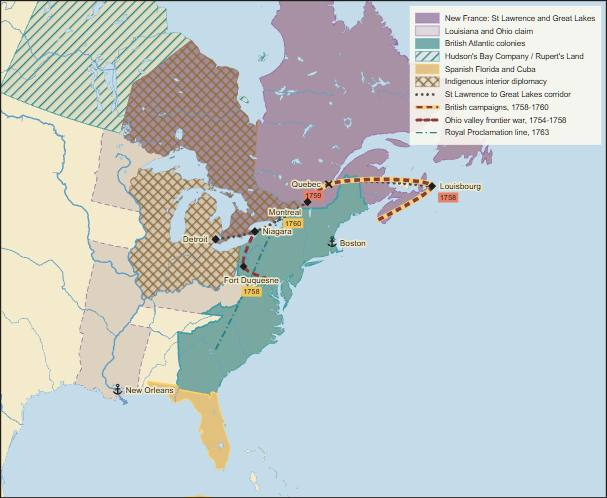
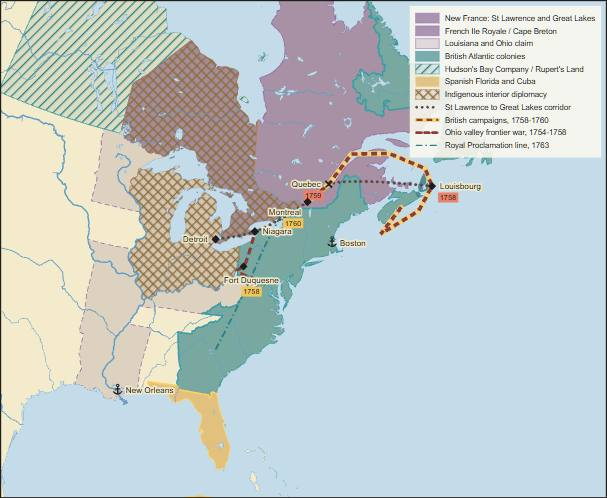
Fix final round atlas geography
Copilot-Session: 37f2f47f-8b63-49cd-b8ce-cded564ac449

Changed region(s): [[0.5041, 0.0, 1.0, 0.4819], [0.3855, 0.4819, 0.4448, 0.5723]]

diff --git a/atlas/plates/seven-years-war-global-1756-1763.js b/atlas/plates/seven-years-war-global-1756-1763.js
@@ -5,22 +5,23 @@
   const QUE=[-71.21,46.81], LOU=[-59.96,45.90], DUQ=[-79.99,40.44], MTL=[-73.56,45.50], BOS=[-71.06,42.36];
   const CAL=[88.36,22.57], PLA=[88.25,23.80], BUX=[84.05,25.56], MAD=[80.27,13.08], PON=[79.83,11.93];
   window.PLATES["seven-years-war-global-1756-1763"] = { id:"seven-years-war-global-1756-1763", title:"The Seven Years' War, 1756-1763", head:"Age of Reason / World war", folio:"41", viewer:"early-modern/1756/ch-seven-years-war-global", figures:[
-    {caption:"Europe: Silesia, Saxony and the diplomatic revolution", share:0.42, extent:[[-5,46],[33,61]], projection:"conic", layers:[
+    {caption:"Europe: Silesia, Saxony and the diplomatic revolution", share:0.42, extent:[[-2,47],[27,57]], projection:"conic", layers:[
       {id:"prussia",type:"area",tier:"core",colour:PRUS,legend:"Prussia and Silesia",regions:["DE-BB","DE-BE","DE-ST","PL-LB","PL-DS","PL-OP","PL-WP","PL-ZP","PL-PM"]},
-      {id:"austria-coalition",type:"area",tier:"influence",colour:AUS,legend:"Austria and Empire coalition",regions:["AUT","CZE","SVK","HUN","HRV","SVN","DE-BY","DE-BW"]},
+      {id:"austria-coalition",type:"area",tier:"core",colour:AUS,legend:"Austria and Empire coalition",regions:["AUT","CZE","SVK","HUN","HRV","SVN","DE-BY","DE-BW"]},
       {id:"france",type:"area",tier:"influence",colour:FRA,legend:"France against Prussia",regions:["FRA"]},
       {id:"britain-hanover",type:"area",pattern:"hatch",colour:BRIT,legend:"Britain-Hanover",regions:["GBR","DE-NI","DE-HB","DE-HH"]},
       {id:"russia",type:"area",tier:"influence",colour:RUS,legend:"Russia and East Prussian pressure",regions:["RUS"]},
       {id:"saxony",type:"area",tier:"core",colour:SAX,legend:"Saxony, Prussian base after Pirna",regions:["DE-SN"]},
       {id:"frederick-lines",type:"route",style:"road",weight:2.6,colour:WAR,legend:"Frederick's interior lines",path:[BER,PRG,ROS,LEU,BER,ZOR,KUN]},
       {id:"western-army",type:"route",style:"dashed",weight:2.2,colour:BRIT,legend:"Ferdinand holds western Germany",path:[[4.9,50.6],[6.8,51.3],MIN]},
-      {id:"rossbach",type:"point",symbol:"battle",at:ROS,name:"Rossbach",labelPos:"w",tag:{text:"1757",colour:"#f1c75b"}}, {id:"leuthen",type:"point",symbol:"battle",at:LEU,name:"Leuthen",tag:{text:"1757",colour:"#f1c75b"}}, {id:"zorndorf",type:"point",symbol:"battle",at:ZOR,name:"Zorndorf",labelPos:"n",tag:{text:"1758",colour:"#f1c75b"}}, {id:"kunersdorf",type:"point",symbol:"battle",at:KUN,name:"Kunersdorf",labelPos:"s",tag:{text:"1759",colour:"#e8806a"}}, {id:"minden",type:"point",symbol:"battle",at:MIN,name:"Minden",labelPos:"n",tag:{text:"1759",colour:"#f1c75b"}}, {id:"hubertusburg",type:"point",symbol:"treaty",at:[12.92,51.25],name:"Hubertusburg",labelPos:"se",tag:{text:"1763",colour:"#f1c75b"}}
-    ], legend:{position:"bottom-left",columns:1}},
+      {id:"rossbach",type:"point",symbol:"battle",at:ROS,name:"Rossbach",labelPos:"sw",tag:{text:"1757",colour:"#f1c75b"}}, {id:"leuthen",type:"point",symbol:"battle",at:LEU,name:"Leuthen",labelPos:"e",tag:{text:"1757",colour:"#f1c75b"}}, {id:"zorndorf",type:"point",symbol:"battle",at:ZOR,name:"Zorndorf",labelPos:"e",tag:{text:"1758",colour:"#f1c75b"}}, {id:"kunersdorf",type:"point",symbol:"battle",at:KUN,name:"Kunersdorf",labelPos:"s",tag:{text:"1759",colour:"#e8806a"}}, {id:"minden",type:"point",symbol:"battle",at:MIN,name:"Minden",labelPos:"n",tag:{text:"1759",colour:"#f1c75b"}}, {id:"hubertusburg",type:"point",symbol:"treaty",at:[12.92,51.25],name:"Hubertusburg",labelPos:"s",tag:{text:"1763",colour:"#f1c75b"}}
+    ], legend:{position:"top-left",columns:1}},
     {caption:"North America: Canada won on the St Lawrence, 1754-1763", share:0.31, extent:[[-90,36],[-55,52]], projection:"conic", layers:[
-      {id:"french-canada-war",type:"area",tier:"core",colour:FRA,legend:"French Canada and Ohio posts",regions:["CA-QC","CA-ON","CA-NB","CA-NS","CA-NL","US-OH","US-PA","US-WV","US-MI"]},
-      {id:"british-seaboard",type:"area",tier:"core",colour:BRIT,legend:"British seaboard colonies",regions:["US-ME","US-NH","US-VT","US-MA","US-RI","US-CT","US-NY","US-NJ","US-PA","US-MD","US-DE","US-VA"]},
-      {id:"louisbourg-quebec",type:"route",geo:true,style:"road",weight:2.8,colour:BRIT,legend:"British sea-borne advance",path:[BOS,[-67,43],LOU,[-63,47],QUE,MTL]},
-      {id:"ohio-1758",type:"route",style:"dashed",weight:2.2,colour:BRIT,legend:"Ohio advance to Fort Duquesne",path:[[-77,39.6],DUQ]},
+      {id:"french-canada-war",type:"area",tier:"core",colour:FRA,legend:"French Canada and Ohio posts",regions:["CA-QC","CA-ON","CA-NB","CA-PE","US-OH","US-WV","US-MI"]},
+      {id:"cape-breton",type:"area",tier:"core",colour:FRA,legend:"French Ile Royale / Cape Breton",polygon:[[-61.7,45.25],[-60.9,45.25],[-59.7,45.75],[-59.5,46.25],[-60.2,47.05],[-61.3,47.05],[-61.8,46.25]],clipToLand:true},
+      {id:"british-seaboard",type:"area",tier:"core",colour:BRIT,legend:"British seaboard colonies",regions:["CA-NL","CA-NS","US-ME","US-NH","US-VT","US-MA","US-RI","US-CT","US-NY","US-NJ","US-PA","US-MD","US-DE","US-VA"]},
+      {id:"louisbourg-quebec",type:"route",geo:true,style:"road",weight:2.8,colour:BRIT,legend:"British sea-borne advance",path:[BOS,[-66.0,42.8],[-61.8,44.2],LOU,[-60.4,47.3],[-64.2,48.8],[-68.5,49.0],QUE,MTL]},
+      {id:"ohio-1758",type:"route",style:"dashed",weight:2.2,colour:WAR,legend:"Ohio advance to Fort Duquesne",path:[[-78.6,39.5],[-80.6,40.1],DUQ]},
       {id:"louisbourg",type:"point",symbol:"fortress",at:LOU,name:"Louisbourg",labelPos:"e",tag:{text:"1758",colour:"#f1c75b"}}, {id:"quebec",type:"point",symbol:"battle",at:QUE,name:"Quebec",labelPos:"w",tag:{text:"1759",colour:"#e8806a"}}, {id:"montreal",type:"point",symbol:"fortress",at:MTL,name:"Montreal",labelPos:"sw",tag:{text:"1760",colour:"#f1c75b"}}, {id:"duquesne",type:"point",symbol:"fortress",at:DUQ,name:"Fort Duquesne",labelPos:"s",tag:{text:"1758",colour:"#f1c75b"}}
     ], legend:{position:"bottom-left",columns:1}},
     {caption:"India: Plassey, Bengal revenue and the failure of French plans", share:0.27, extent:[[72,7],[91,27]], projection:"conic", layers:[
@@ -32,6 +33,6 @@
     ], legend:{position:"bottom-left",columns:1}}
   ], text:{intro:"The Seven Years' War is the atlas's first fully global war: Silesia, Hanover, Canada, the Caribbean, Senegal and India all belong to the same fiscal and naval struggle.", sections:[
     {heading:"Europe", entries:[{date:"1756-1763",text:"Frederick strikes first in Saxony, survives coalition pressure by interior lines, and keeps Silesia at Hubertusburg.",refs:["prussia","saxony","austria-coalition","russia","frederick-lines","rossbach","leuthen","zorndorf","kunersdorf","hubertusburg"]},{date:"1757-1759",text:"Britain subsidizes Prussia and uses Hanoverian western Germany to hold France while the navy attacks overseas.",refs:["britain-hanover","france","western-army","minden"]}]},
-    {heading:"Overseas", entries:[{date:"1758-1760",text:"Louisbourg, Quebec and Montreal break New France; Canada is won on the St Lawrence as much as in Silesia.",refs:["french-canada-war","british-seaboard","louisbourg-quebec","louisbourg","quebec","montreal","ohio-1758"]},{date:"1757-1765",text:"In India, Plassey and Buxar let the East India Company turn Bengal from trading theatre into revenue base, while French plans collapse.",refs:["british-bengal","french-losses","maratha-field","clive","plassey","buxar","pondicherry"]}]}
+    {heading:"Overseas", entries:[{date:"1758-1760",text:"Louisbourg, Quebec and Montreal break New France; Canada is won on the St Lawrence as much as in Silesia.",refs:["french-canada-war","cape-breton","british-seaboard","louisbourg-quebec","louisbourg","quebec","montreal","ohio-1758"]},{date:"1757-1765",text:"In India, Plassey and Buxar let the East India Company turn Bengal from trading theatre into revenue base, while French plans collapse.",refs:["british-bengal","french-losses","maratha-field","clive","plassey","buxar","pondicherry"]}]}
   ]}, sources:["Penguin Atlas Vol. 1 pp. 283-284", "Natural Earth admin-1 regions approximate war theatres and territorial fields"] };
 })();

diff --git a/atlas/plates/atlantic-america-new-france-1607-1763.js b/atlas/plates/atlantic-america-new-france-1607-1763.js
@@ -4,15 +4,16 @@
   const QUE=[-71.21,46.81], MTL=[-73.56,45.50], LOU=[-59.96,45.90], DUQ=[-79.99,40.44], NIAG=[-79.06,43.15], DET=[-83.05,42.33], NEWO=[-90.07,29.95], BOS=[-71.06,42.36], NYC=[-74.01,40.71], PHI=[-75.16,39.95], HAV=[-82.37,23.11], KING=[-76.79,17.97], POT=[-65.75,-19.58], REC=[-34.88,-8.05], RIO=[-43.17,-22.91], CART=[-75.48,10.40], VER=[-96.14,19.17];
   window.PLATES["atlantic-america-new-france-1607-1763"] = { id:"atlantic-america-new-france-1607-1763", title:"Atlantic America and New France, 1607-1763", head:"Age of Reason / America", folio:"40", viewer:"early-modern/1763/ch-atlantic-america-new-france", figures:[
     {caption:"French and British North America to the Peace of Paris, 1763", share:0.58, extent:[[-98,24],[-50,58]], projection:"conic", layers:[
-      {id:"new-france-canada",type:"area",tier:"core",colour:FRA,legend:"New France: St Lawrence and Great Lakes",regions:["CA-QC","CA-ON","CA-NB","CA-NS","CA-NL"]},
+      {id:"new-france-canada",type:"area",tier:"core",colour:FRA,legend:"New France: St Lawrence and Great Lakes",regions:["CA-QC","CA-ON","CA-NB","CA-PE"]},
+      {id:"cape-breton",type:"area",tier:"core",colour:FRA,legend:"French Ile Royale / Cape Breton",polygon:[[-61.7,45.25],[-60.9,45.25],[-59.7,45.75],[-59.5,46.25],[-60.2,47.05],[-61.3,47.05],[-61.8,46.25]],clipToLand:true},
       {id:"louisiana-claim",type:"area",tier:"influence",colour:FRA,legend:"Louisiana and Ohio claim",regions:["US-LA","US-MS","US-AR","US-MO","US-IL","US-IN","US-OH","US-KY","US-WV","US-MI","US-WI","US-MN"]},
-      {id:"british-colonies",type:"area",tier:"core",colour:BRIT,legend:"British Atlantic colonies",regions:["US-ME","US-NH","US-VT","US-MA","US-RI","US-CT","US-NY","US-NJ","US-PA","US-DE","US-MD","US-DC","US-VA","US-NC","US-SC","US-GA"]},
+      {id:"british-colonies",type:"area",tier:"core",colour:BRIT,legend:"British Atlantic colonies",regions:["CA-NL","CA-NS","US-ME","US-NH","US-VT","US-MA","US-RI","US-CT","US-NY","US-NJ","US-PA","US-DE","US-MD","US-DC","US-VA","US-NC","US-SC","US-GA"]},
       {id:"hudson-bay",type:"area",pattern:"hatch",colour:BRIT,legend:"Hudson's Bay Company / Rupert's Land",regions:["CA-NU","CA-MB","CA-SK","CA-NT"]},
       {id:"spanish-florida",type:"area",tier:"core",colour:SPA,legend:"Spanish Florida and Cuba",regions:["US-FL","CUB"]},
       {id:"indigenous-country",type:"area",pattern:"crosshatch",colour:IND,legend:"Indigenous interior diplomacy",regions:["US-OH","US-IN","US-MI","US-WI","US-IL","CA-ON"]},
       {id:"st-lawrence",type:"route",style:"dotted",weight:2.4,colour:ROAD,legend:"St Lawrence to Great Lakes corridor",path:[LOU,QUE,MTL,NIAG,DET]},
-      {id:"british-advance",type:"route",style:"road",weight:2.8,colour:WAR,legend:"British campaigns, 1758-1760",path:[[ -66.1,43.9],LOU,QUE,MTL]},
-      {id:"ohio-front",type:"route",style:"dashed",weight:2.2,colour:WAR,legend:"Ohio valley frontier war, 1754-1758",path:[[ -77.4,39.6],DUQ,NIAG]},
+      {id:"british-advance",type:"route",geo:true,style:"road",weight:2.8,colour:WAR,legend:"British campaigns, 1758-1760",path:[[-63.57,44.65],[-66.0,42.8],[-61.8,44.2],LOU,[-60.4,47.3],[-64.2,48.8],[-68.5,49.0],QUE,MTL]},
+      {id:"ohio-front",type:"route",style:"dashed",weight:2.2,colour:WAR,legend:"Ohio valley frontier war, 1754-1758",path:[[-78.6,39.5],[-80.6,40.1],DUQ,NIAG]},
       {id:"proclamation",type:"boundary",style:"dashdot",colour:BRIT,width:2,legend:"Royal Proclamation line, 1763",path:[[-82,34],[-81,36],[-80,38],[-79,40],[-78,42],[-76,45]]},
       {id:"louisbourg",type:"point",symbol:"fortress",at:LOU,name:"Louisbourg",labelPos:"e",tag:{text:"1758",colour:"#e8806a"}}, {id:"quebec",type:"point",symbol:"battle",at:QUE,name:"Quebec",labelPos:"w",tag:{text:"1759",colour:"#e8806a"}}, {id:"montreal",type:"point",symbol:"fortress",at:MTL,name:"Montreal",labelPos:"sw",tag:{text:"1760",colour:"#f1c75b"}}, {id:"fort-duquesne",type:"point",symbol:"fortress",at:DUQ,name:"Fort Duquesne",labelPos:"s",tag:{text:"1758",colour:"#f1c75b"}}, {id:"niagara",type:"point",symbol:"fortress",at:NIAG,name:"Niagara",labelPos:"e"}, {id:"detroit",type:"point",symbol:"fortress",at:DET,name:"Detroit",labelPos:"w"}, {id:"new-orleans",type:"point",symbol:"port",at:NEWO,name:"New Orleans",labelPos:"e"}, {id:"boston",type:"point",symbol:"port",at:BOS,name:"Boston",labelPos:"e"}
     ], legend:{position:"top-right",columns:1}},
@@ -29,7 +30,7 @@
       {id:"potosi",type:"point",symbol:"find",at:POT,name:"Potosi",labelPos:"w",tag:{text:"1546",colour:"#f1c75b"}}, {id:"recife",type:"point",symbol:"port",at:REC,name:"Recife",labelPos:"e",tag:{text:"1630",colour:"#f1c75b"}}, {id:"rio",type:"point",symbol:"port",at:RIO,name:"Rio",labelPos:"e"}, {id:"veracruz",type:"point",symbol:"port",at:VER,name:"Vera Cruz",labelPos:"nw"}, {id:"havana",type:"point",symbol:"port",at:HAV,name:"Havana",labelPos:"e"}, {id:"jamaica",type:"point",symbol:"port",at:KING,name:"Jamaica",labelPos:"e",tag:{text:"1655",colour:"#f1c75b"}}
     ], legend:{position:"bottom-left",columns:1}}
   ], text:{intro:"The American pages are not just background for Europe: New France, the St Lawrence, the Great Lakes forts, Caribbean islands, silver fleets and Brazil form a connected Atlantic map.", sections:[
-    {heading:"Canada and the interior", entries:[{date:"1608-1760",text:"Quebec, Montreal, Louisbourg and the Great Lakes forts hold New France together along the St Lawrence and inland waterways, with Indigenous diplomacy shaping the frontier.",refs:["new-france-canada","louisiana-claim","indigenous-country","st-lawrence","quebec","montreal","louisbourg","niagara","detroit"]},{date:"1754-1763",text:"War opens in the Ohio valley, then British sea power takes Louisbourg, Quebec and Montreal; the Royal Proclamation line tries to freeze expansion beyond the Appalachians.",refs:["british-colonies","british-advance","ohio-front","fort-duquesne","proclamation"]}]},
+    {heading:"Canada and the interior", entries:[{date:"1608-1760",text:"Quebec, Montreal, Louisbourg and the Great Lakes forts hold New France together along the St Lawrence and inland waterways, with Indigenous diplomacy shaping the frontier.",refs:["new-france-canada","cape-breton","louisiana-claim","indigenous-country","st-lawrence","quebec","montreal","louisbourg","niagara","detroit"]},{date:"1754-1763",text:"War opens in the Ohio valley, then British sea power takes Louisbourg, Quebec and Montreal; the Royal Proclamation line tries to freeze expansion beyond the Appalachians.",refs:["british-colonies","british-advance","ohio-front","fort-duquesne","proclamation"]}]},
     {heading:"Atlantic empires", entries:[{date:"1546-1777",text:"Spanish silver, Portuguese Brazil, Dutch Guiana, British Jamaica and French Saint-Domingue pull the Americas into European war, slavery and fiscal crisis.",refs:["spanish-america","portuguese-brazil","dutch-atlantic","british-west-indies","french-antilles","silver-route","slave-route","potosi","jamaica"]},{date:"1607-1767",text:"Jesuit missions in Paraguay and Paulista raids show how imperial frontiers were also mission fields, slave-raiding zones and contested Indigenous landscapes.",refs:["jesuit-paraguay","paulistas"]}]}
   ]}, sources:["Penguin Atlas Vol. 1 pp. 277-278 and 283-284", "Natural Earth admin-1 regions approximate colonial claims; Indigenous country is intentionally schematic"] };
 })();

diff --git a/atlas/plates/prussia-poland-enlightened-despotism-1713-1795.js b/atlas/plates/prussia-poland-enlightened-despotism-1713-1795.js
@@ -15,32 +15,33 @@
     ], legend:{position:"bottom-left",columns:1}},
     {caption:"The partitions of Poland, 1772-1795", share:0.37, extent:[[12,47],[33,57]], projection:"conic", layers:[
       {id:"poland-1760",type:"area",tier:"influence",colour:POL,legend:"Poland-Lithuania before partition",regions:["POL","LTU","BLR","UA-07","UA-56","UA-18","UA-32","UA-46","UA-61","UA-68","UA-05","UA-71","UA-53","UA-74"]},
-      {id:"prussian-partitions",type:"area",pattern:"hatch",colour:PRUS,legend:"Prussian gains: Royal Prussia, Posen, Warsaw",regions:["PL-PM","PL-WP","PL-KP","PL-LD","PL-MZ"]},
-      {id:"russian-partitions",type:"area",pattern:"hatch",colour:RUS,legend:"Russian gains: Lithuania, Belarus, Right-Bank Ukraine",regions:["LTU","BLR","UA-07","UA-56","UA-18","UA-32","UA-46","UA-61","UA-68","UA-05","UA-71","UA-53","UA-74"]},
-      {id:"austrian-partitions",type:"area",pattern:"hatch",colour:AUS,legend:"Austrian gains: Galicia",regions:["PL-PK","PL-LU","PL-MA","UA-46","UA-21","UA-26"]},
+      {id:"prussian-1772",type:"area",tier:"core",colour:PRUS,legend:"Prussia: 1772 Royal Prussia / Netze",regions:["PL-PM","PL-KP"]},
+      {id:"prussian-later",type:"area",pattern:"hatch",colour:PRUS,legend:"Prussia: 1793-1795 Posen and Warsaw",regions:["PL-WP","PL-LD","PL-MZ"]},
+      {id:"russian-1772",type:"area",tier:"core",colour:RUS,legend:"Russia: 1772 Belarus frontier",regions:["BLR"]},
+      {id:"russian-later",type:"area",pattern:"hatch",colour:RUS,legend:"Russia: 1793-1795 Lithuania and Ukraine",regions:["LTU","UA-07","UA-56","UA-18","UA-32","UA-46","UA-61","UA-68","UA-05","UA-71","UA-53","UA-74"]},
+      {id:"austrian-1772",type:"area",tier:"core",colour:AUS,legend:"Austria: 1772 Galicia",regions:["PL-PK","PL-LU","PL-MA","UA-46","UA-21","UA-26"]},
       {id:"kosciuszko",type:"route",style:"dashed",weight:2.4,colour:WAR,legend:"Kosciuszko rising, 1794",path:[CRAC,WARSAW,GROD]},
-      {id:"bar-targowice",type:"route",style:"dotted",weight:2,colour:WAR,legend:"Bar to Targowice confederations",path:[[27.68,49.08],TARG]},
       {id:"warsaw",type:"point",symbol:"capital",at:WARSAW,name:"Warsaw",tag:{text:"1794",colour:"#e8806a"}}, {id:"cracow",type:"point",symbol:"battle",at:CRAC,name:"Cracow",labelPos:"sw"}, {id:"grodno",type:"point",symbol:"treaty",at:GROD,name:"Grodno",labelPos:"e",tag:{text:"1793",colour:"#f1c75b"}}, {id:"vilna",type:"point",symbol:"large-city",at:VIL,name:"Vilna",labelPos:"ne"}, {id:"danzig",type:"point",symbol:"port",at:DAN,name:"Danzig",labelPos:"n"}, {id:"posen",type:"point",symbol:"large-city",at:POS,name:"Posen",labelPos:"s"}
-    ], legend:{x:760,y:8,columns:1}},
-    {caption:"Enlightened despotism: reform from above", kind:"diagram", share:0.28, diagram:{height:0.58, compartments:[
+    ], legend:{position:"top-left",columns:1}},
+    {caption:"Enlightened despotism: reform from above", kind:"diagram", share:0.28, diagram:{height:0.50, compartments:[
       {id:"state",label:"Reason of state",x:0.04,y:0.05,w:0.92,h:0.38,colour:IDEA,fill:"#eee8d5"},
-      {id:"limits",label:"Limits",x:0.04,y:0.52,w:0.92,h:0.36,colour:WAR,fill:"#f3e4be"}
+      {id:"limits",label:"Limits",x:0.04,y:0.52,w:0.92,h:0.30,colour:WAR,fill:"#f3e4be"}
     ], nodes:[
       {id:"frederick",label:"Frederick II\nPrussia",x:0.18,y:0.20,w:0.20,h:0.12,colour:PRUS,strong:true},
       {id:"maria",label:"Maria Theresa\nAustria",x:0.50,y:0.20,w:0.20,h:0.12,colour:AUS,strong:true},
       {id:"catherine",label:"Catherine II\nRussia",x:0.82,y:0.20,w:0.20,h:0.12,colour:RUS,strong:true},
-      {id:"law",label:"law, schools\nand officials",x:0.18,y:0.70,w:0.20,h:0.12,colour:IDEA},
-      {id:"serfdom",label:"serfdom\nand estates",x:0.50,y:0.70,w:0.20,h:0.12,colour:WAR},
-      {id:"poland",label:"Poland\npartitioned",x:0.82,y:0.70,w:0.20,h:0.12,colour:POL}
+      {id:"law",label:"law, schools\nand officials",x:0.18,y:0.68,w:0.20,h:0.12,colour:IDEA},
+      {id:"serfdom",label:"serfdom\nand estates",x:0.50,y:0.68,w:0.20,h:0.12,colour:WAR},
+      {id:"poland",label:"Poland\npartitioned",x:0.82,y:0.68,w:0.20,h:0.12,colour:POL}
     ], arrows:[
       {id:"prus-law",from:"frederick",to:"law"},
       {id:"aus-law",from:"maria",to:"law"},
-      {id:"rus-serf",from:"catherine",to:"serfdom",label:"noble power"},
-      {id:"serf-pol",from:"serfdom",to:"poland",label:"army + empire"},
+      {id:"rus-serf",from:"catherine",to:"serfdom"},
+      {id:"serf-pol",from:"serfdom",to:"poland"},
       {id:"three",from:"catherine",to:"poland",label:"1772 / 1793 / 1795"}
     ]}},
   ], text:{intro:"The last European pages show the eighteenth-century state becoming more rational, more militarized and more dangerous: Prussia rises, Poland is partitioned, and enlightened reform rarely means popular rule.", sections:[
     {heading:"Prussia and cabinet politics", entries:[{date:"1713-1748",text:"Frederick William I builds the military-bureaucratic Prussian state; Frederick II then takes Silesia and forces Austria to accept Prussia as a great power.",refs:["prussia-1740","silesia-gain","silesian-war","berlin","breslau","dresden"]},{date:"1713-1748",text:"Cabinet politics after Utrecht rearrange Sardinia, Sicily, Naples, Tuscany, Parma, Lorraine and the Austrian Netherlands by dynastic exchange as much as battle.",refs:["france-ancien","austria-1740","italian-exchanges","lorraine","vienna"]}]},
-    {heading:"Poland and enlightened absolutism", entries:[{date:"1772-1795",text:"Russia, Prussia and Austria use confederations, reform panic and military occupation to erase Poland-Lithuania in three partitions.",refs:["poland-1760","prussian-partitions","russian-partitions","austrian-partitions","bar-targowice","kosciuszko","warsaw","grodno"]},{date:"1740-1796",text:"Frederick, Maria Theresa, Joseph II and Catherine all speak the language of reason, law and useful subjects, but estates, serfdom and empire set the hard limits.",refs:["frederick","maria","catherine","law","serfdom","poland"]}]}
+    {heading:"Poland and enlightened absolutism", entries:[{date:"1772-1795",text:"Russia, Prussia and Austria use confederations, reform panic and military occupation to erase Poland-Lithuania in three partitions.",refs:["poland-1760","prussian-1772","prussian-later","russian-1772","russian-later","austrian-1772","kosciuszko","warsaw","grodno"]},{date:"1740-1796",text:"Frederick, Maria Theresa, Joseph II and Catherine all speak the language of reason, law and useful subjects, but estates, serfdom and empire set the hard limits.",refs:["frederick","maria","catherine","law","serfdom","poland"]}]}
   ]}, sources:["Penguin Atlas Vol. 1 pp. 281-288", "Natural Earth admin-1 regions approximate Silesia, Galicia, Lithuania and partition zones"] };
 })();

diff --git a/atlas/plates/china-india-manchu-mughal-1644-1765.js b/atlas/plates/china-india-manchu-mughal-1644-1765.js
@@ -2,7 +2,7 @@
 (function () {
   const CHN="#d8a84f", MAN="#8c6d3f", IND="#c58b32", MAR="#6b8c3f", BRIT="#2f7f86", FRA="#7a5a8c", WAR="#8c3b3b", ROAD="#5b4a3f";
   const PEK=[116.41,39.90], MUK=[123.43,41.80], NAN=[118.80,32.06], CAN=[113.26,23.13], TAI=[120.96,23.70], TIB=[91.12,29.65], URU=[87.62,43.82], KYA=[106.20,50.35];
-  const DEL=[77.21,28.61], AGRA=[78.01,27.18], SUR=[72.83,21.17], BOM=[72.88,19.08], CAL=[88.36,22.57], MAD=[80.27,13.08], PON=[79.83,11.93], PLA=[88.25,23.80], BUX=[84.05,25.56], PAN=[76.97,29.39];
+  const DEL=[77.21,28.61], AGRA=[78.01,27.18], SUR=[72.83,21.17], BOM=[72.88,19.08], CAL=[88.36,22.57], MAD=[80.27,13.08], PON=[79.83,11.93], CHAN=[88.38,22.86], PLA=[88.25,23.80], BUX=[84.05,25.56], PAN=[76.97,29.39];
   window.PLATES["china-india-manchu-mughal-1644-1765"] = { id:"china-india-manchu-mughal-1644-1765", title:"China and India, 1644-1765", head:"Age of Reason / Asia", folio:"39", viewer:"early-modern/1757/ch-china-india-asia", figures:[
     {caption:"Qing China under the Manchu, 1644-1796", share:0.50, extent:[[72,17],[135,54]], projection:"conic", layers:[
       {id:"qing-core",type:"area",tier:"core",colour:CHN,legend:"Qing core provinces",regions:["CHN"],minus:["CN-XJ","CN-XZ","CN-NM","CN-QH"]},
@@ -16,14 +16,15 @@
       {id:"mughal-north",type:"area",tier:"influence",colour:IND,legend:"Mughal north and successor nawabs",regions:["PK-PB","PK-SD","IN-PB","IN-HR","IN-DL","IN-UP","IN-BR","IN-WB","IN-RJ","IN-MP","BD-C","BD-D","BD-E"]},
       {id:"maratha-confederacy",type:"area",tier:"core",colour:MAR,legend:"Maratha power in the Deccan",regions:["IN-MH","IN-MP","IN-GJ","IN-KA","IN-TG","IN-AP"]},
       {id:"rajput-sikh",type:"area",pattern:"hatch",colour:IND,legend:"Rajput and Sikh resistance zones",regions:["IN-RJ","IN-PB","IN-HR"]},
-      {id:"british-company",type:"area",pattern:"hatch",colour:BRIT,legend:"British company bridgeheads / Bengal",regions:["IN-WB","BD-C","BD-D","IN-TN","IN-MH"]},
-      {id:"french-company",type:"area",pattern:"hatch",colour:FRA,legend:"French company enclaves",regions:["IN-PY"]},
+      {id:"british-company",type:"area",pattern:"hatch",colour:BRIT,legend:"British Bengal after 1765",regions:["IN-WB","BD-C","BD-D","BD-E","IN-BR"]},
+      {id:"french-company",type:"area",pattern:"hatch",colour:FRA,legend:"French company enclave at Pondicherry",regions:["IN-PY"]},
       {id:"clive-bengal",type:"route",style:"dashed",weight:2.2,colour:BRIT,legend:"Clive: Calcutta to Plassey and Buxar",path:[CAL,PLA,BUX]},
       {id:"aurangzeb-deccan",type:"route",style:"dotted",weight:2.2,colour:WAR,legend:"Aurangzeb's Deccan wars",path:[DEL,AGRA,SUR,[75,18],[78,17]]},
+      {id:"chandernagore",type:"point",symbol:"port",at:CHAN,name:"Chandernagore",labelPos:"ne",legend:"French enclave: Chandernagore"},
       {id:"delhi",type:"point",symbol:"capital",at:DEL,name:"Delhi"}, {id:"agra",type:"point",symbol:"large-city",at:AGRA,name:"Agra",labelPos:"se"}, {id:"surat",type:"point",symbol:"port",at:SUR,name:"Surat",labelPos:"w",tag:{text:"1664/70",colour:"#f1c75b"}}, {id:"bombay",type:"point",symbol:"port",at:BOM,name:"Bombay",labelPos:"w"}, {id:"madras",type:"point",symbol:"port",at:MAD,name:"Madras",labelPos:"e"}, {id:"pondicherry",type:"point",symbol:"port",at:PON,name:"Pondicherry",labelPos:"s"}, {id:"calcutta",type:"point",symbol:"port",at:CAL,name:"Calcutta",labelPos:"e"}, {id:"plassey",type:"point",symbol:"battle",at:PLA,name:"Plassey",labelPos:"nw",tag:{text:"1757",colour:"#e8806a"}}, {id:"buxar",type:"point",symbol:"battle",at:BUX,name:"Buxar",labelPos:"nw",tag:{text:"1764",colour:"#f1c75b"}}, {id:"panipat",type:"point",symbol:"battle",at:PAN,name:"Panipat",labelPos:"nw",tag:{text:"1761",colour:"#f1c75b"}}
     ], legend:{position:"bottom-left",columns:1}}
   ], text:{intro:"The atlas turns east before returning to Europe: Qing China reaches its largest eighteenth-century extent while Mughal India breaks into regional powers that European companies learn to exploit.", sections:[
     {heading:"Qing consolidation", entries:[{date:"1644-1724",text:"Manchu banner power takes Peking, secures south China and Formosa, then turns Mongolia and Tibet into buffer zones around the Qing core.",refs:["qing-core","manchu-homeland","frontier-buffer","peking","mukden","taiwan","tibet-protectorate"]},{date:"1729-1761",text:"Qianlong's wars in Dzungaria and the Ili region push the empire to its greatest extension while closing China more tightly against European influence.",refs:["dzungar-war","ili","frontier-buffer"]}]},
-    {heading:"India after Aurangzeb", entries:[{date:"1658-1707",text:"Aurangzeb stretches Mughal rule into the Deccan, but war, religious pressure and Maratha resistance begin the empire's dissolution.",refs:["mughal-north","maratha-confederacy","rajput-sikh","aurangzeb-deccan","delhi","surat"]},{date:"1746-1765",text:"British and French companies fight through Indian allies; Plassey and Buxar give the East India Company Bengal revenue and break French hopes for India.",refs:["british-company","french-company","clive-bengal","calcutta","pondicherry","plassey","buxar"]}]}
+    {heading:"India after Aurangzeb", entries:[{date:"1658-1707",text:"Aurangzeb stretches Mughal rule into the Deccan, but war, religious pressure and Maratha resistance begin the empire's dissolution.",refs:["mughal-north","maratha-confederacy","rajput-sikh","aurangzeb-deccan","delhi","surat"]},{date:"1746-1765",text:"British and French companies fight through Indian allies; Plassey and Buxar give the East India Company Bengal revenue and break French hopes for India.",refs:["british-company","french-company","chandernagore","clive-bengal","calcutta","pondicherry","plassey","buxar"]}]}
   ]}, sources:["Penguin Atlas Vol. 1 pp. 274-276", "Natural Earth admin-1 regions approximate Qing, Mughal, Maratha and company fields"] };
 })();
